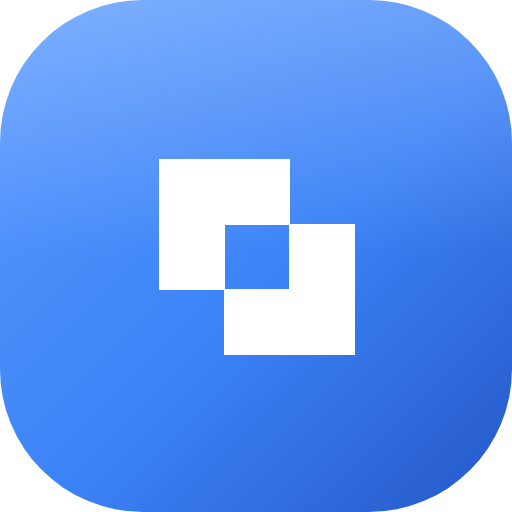
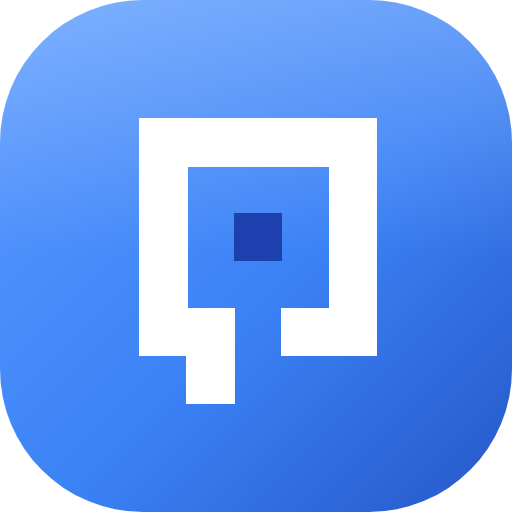
Marca Quest, grid no fundo da entrada e light mode refinado
- Marca Quest (símbolo D): balão de diálogo com a perna do Q em pixel,
  ponto central azul; renomeia Folia -> Quest em app, ícone, favicon, PWA,
  título, planilha do Drive e política de privacidade
- Tela de entrada: grade quadricular sutil somada às waves e ao granulado
- Light mode: neutros alinhados ao azul da marca, fundo mais suave e
  pontilhado visível (antes sumia no claro)

Claude-Session: https://claude.ai/code/session_01L9CKgReVrPXbht5aW6Gz6U

Changed region(s): [[0.25, 0.2188, 0.75, 0.8125]]

diff --git a/src/components/app-logo.tsx b/src/components/app-logo.tsx
@@ -1,55 +1,35 @@
 import { cn } from "@/lib/utils"
 
 /*
- * Folia — "folha" em festa. Logotipo em pixel no grid de 13 px da MAVI:
- * o O é uma folha (e o pingo do I também). A folha-O sozinha é o símbolo da marca.
+ * Quest — finanças como missões. Símbolo em pixel (grid de 13px, sistema MAVI):
+ * um balão de diálogo (a quest que se resolve conversando) com a perna do "Q".
+ * O ponto central é o ponto de interação (azul da marca).
  */
-const F = ["XXX", "XX.", "X.."]
-const O_LEAF = ["gg.", "g.g", ".gg"]
-const L = ["X..", "X..", "XXX"]
-const I = ["g", "X", "X"]
-const A = ["XXX", "XXX", "X.X"]
-
 const B = 13
-interface Px { x: number; y: number; leaf: boolean }
-const WORD_BLOCKS: Px[] = []
-let ox = 0
-for (const g of [F, O_LEAF, L, I, A]) {
-  g.forEach((row, y) => [...row].forEach((c, x) => { if (c !== ".") WORD_BLOCKS.push({ x: x + ox, y, leaf: c === "g" }) }))
-  ox += g[0].length + 1
-}
-const WORD_W = (ox - 1) * B // 17 blocos
-const LEAF_BLOCKS: Px[] = []
-O_LEAF.forEach((row, y) => [...row].forEach((c, x) => { if (c !== ".") LEAF_BLOCKS.push({ x, y, leaf: true }) }))
+// X = traço; o = ponto de interação
+const GRID = ["XXXXX", "X...X", "X.o.X", "X...X", "XX.XX", ".X..."]
+interface Px { x: number; y: number; dot: boolean }
+const BLOCKS: Px[] = []
+GRID.forEach((row, y) => [...row].forEach((c, x) => { if (c !== ".") BLOCKS.push({ x, y, dot: c === "o" }) }))
+const W = GRID[0].length * B
+const H = GRID.length * B
 
-const rects = (blocks: Px[], leaf: string) =>
-  [...blocks].sort((a, b) => Number(a.leaf) - Number(b.leaf)).map((p, i) => (
-    <rect key={i} x={p.x * B} y={p.y * B} width={B + 0.2} height={B + 0.2} fill={p.leaf ? leaf : undefined} />
-  ))
-
-/** Logotipo "FOLIA" (traço herda a cor do texto; folhas na cor da marca) */
-export function FoliaWordmark({ className, leaf = "var(--logo-leaf, #9BE858)" }: { className?: string; leaf?: string }) {
+/** Símbolo da marca (traço herda a cor do texto; ponto na cor da marca) */
+export function QuestMark({ className, stroke = "currentColor", dot = "#3B82F6" }: { className?: string; stroke?: string; dot?: string }) {
   return (
-    <svg viewBox={`0 0 ${WORD_W} ${3 * B}`} className={className} fill="currentColor" shapeRendering="crispEdges" role="img" aria-label="Folia">
-      {rects(WORD_BLOCKS, leaf)}
+    <svg viewBox={`0 0 ${W} ${H}`} className={className} shapeRendering="crispEdges" role="img" aria-label="Quest">
+      {[...BLOCKS].sort((a, b) => Number(a.dot) - Number(b.dot)).map((p, i) => (
+        <rect key={i} x={p.x * B} y={p.y * B} width={B + 0.3} height={B + 0.3} fill={p.dot ? dot : stroke} />
+      ))}
     </svg>
   )
 }
 
-/** Símbolo da marca: a folha-O do logotipo */
-export function FoliaMark({ className, leaf = "currentColor" }: { className?: string; leaf?: string }) {
-  return (
-    <svg viewBox={`0 0 ${3 * B} ${3 * B}`} className={className} shapeRendering="crispEdges" aria-hidden="true">
-      {rects(LEAF_BLOCKS, leaf)}
-    </svg>
-  )
-}
-
-/** Ícone do app: folha branca sobre o verde da Folia */
+/** Ícone do app: símbolo branco sobre o azul da marca, ponto azul vivo */
 export function AppLogo({ className }: { className?: string }) {
   return (
     <span className={cn("relative inline-flex size-8 shrink-0 items-center justify-center overflow-hidden rounded-[28%] bg-[linear-gradient(145deg,#5B9BFF,#3B82F6_55%,#2557C7)] shadow-[inset_0_1px_0_rgba(255,255,255,0.35)]", className)}>
-      <FoliaMark className="h-[54%] w-auto" leaf="#ffffff" />
+      <QuestMark className="h-[56%] w-auto" stroke="#ffffff" dot="#1E40AF" />
     </span>
   )
 }

diff --git a/src/pages/onboarding.tsx b/src/pages/onboarding.tsx
@@ -6,7 +6,7 @@ import { Input } from "@/components/ui/input"
 import { FieldLabel } from "@/components/field-label"
 import { MoneyInput } from "@/components/money-input"
 import { SimpleSelect } from "@/components/simple-select"
-import { AppLogo, FoliaWordmark } from "@/components/app-logo"
+import { AppLogo } from "@/components/app-logo"
 import { AuthorCredit } from "@/components/author-credit"
 import { FunSteps } from "@/components/fun-steps"
 import { GoogleIcon } from "@/components/google-icon"
@@ -76,7 +76,7 @@ export function Onboarding() {
           <div className="relative">
           <div className="flex flex-col items-center text-center">
             <AppLogo className="size-16 shadow-[0_14px_40px_-10px_rgba(59,130,246,0.5),inset_0_1px_0_rgba(255,255,255,0.35)] transition-transform duration-500 hover:-rotate-6 hover:scale-105" />
-            <FoliaWordmark className="mt-5 h-6 w-auto" leaf="#3B82F6" />
+            <span className="mt-5 font-brand text-[30px] leading-none font-semibold lowercase tracking-tight">quest</span>
             <p className="mt-1.5 text-sm text-balance text-muted-foreground">
               {view === "guest"
                   ? "Só precisamos de duas informações para começar."
@@ -238,6 +238,13 @@ function Backdrop({ className }: { className?: string }) {
         <div className="aurora-3 -bottom-[22%] left-[18%] h-[65%] w-[60%] bg-[#7DD3FC]/40 dark:bg-[#22D3EE]/45" />
         <div className="aurora-4 bottom-[6%] right-[14%] h-[45%] w-[45%] bg-[#A78BFA]/35 dark:bg-[#A78BFA]/40" />
       </div>
+      {/* grade quadricular sutil */}
+      <div className="absolute inset-0 opacity-[0.6] dark:opacity-[0.5]" style={{
+        backgroundImage: "linear-gradient(to right, color-mix(in srgb, var(--foreground) 6%, transparent) 1px, transparent 1px), linear-gradient(to bottom, color-mix(in srgb, var(--foreground) 6%, transparent) 1px, transparent 1px)",
+        backgroundSize: "40px 40px",
+        maskImage: "radial-gradient(ellipse 75% 65% at 50% 45%, black 25%, transparent 80%)",
+        WebkitMaskImage: "radial-gradient(ellipse 75% 65% at 50% 45%, black 25%, transparent 80%)",
+      }} />
       {/* vinheta para focar o centro e escurecer as bordas */}
       <div className="absolute inset-0" style={{
         background: "radial-gradient(ellipse 80% 70% at 50% 45%, transparent 35%, color-mix(in srgb, var(--background) 55%, transparent) 78%, var(--background) 100%)",

diff --git a/public/privacidade.html b/public/privacidade.html
@@ -3,7 +3,7 @@
 <head>
 <meta charset="utf-8" />
 <meta name="viewport" content="width=device-width, initial-scale=1" />
-<title>Política de Privacidade · Finitree</title>
+<title>Política de Privacidade · Quest</title>
 <link rel="icon" type="image/svg+xml" href="./icon.svg?v=3" />
 <meta name="theme-color" content="#090B12" />
 <script>
@@ -86,10 +86,10 @@
 
   <main class="card">
     <h1>Política de Privacidade</h1>
-    <p class="meta">Finitree · atualizada em novembro de 2026</p>
+    <p class="meta">Quest · atualizada em novembro de 2026</p>
 
     <div class="summary">
-      <p><b>Resumo:</b> o Finitree não tem servidor e não coleta seus dados. O que você registra fica no seu aparelho e, se você entrar com o Google, numa planilha criada no <b>seu próprio Google Drive</b>. O desenvolvedor não tem acesso a nada disso.</p>
+      <p><b>Resumo:</b> o Quest não tem servidor e não coleta seus dados. O que você registra fica no seu aparelho e, se você entrar com o Google, numa planilha criada no <b>seu próprio Google Drive</b>. O desenvolvedor não tem acesso a nada disso.</p>
     </div>
 
     <h2>Quais dados o app usa</h2>
@@ -102,7 +102,7 @@
     <h2>Onde ficam guardados</h2>
     <ul>
       <li>No armazenamento local do navegador do seu aparelho, para o app funcionar offline.</li>
-      <li>Se você entrar com o Google: numa planilha chamada “Finitree — dados” no seu Google Drive. Você pode abri-la, baixá-la ou apagá-la quando quiser.</li>
+      <li>Se você entrar com o Google: numa planilha chamada “Quest — dados” no seu Google Drive. Você pode abri-la, baixá-la ou apagá-la quando quiser.</li>
     </ul>
 
     <h2>Permissões do Google</h2>
@@ -114,7 +114,7 @@
     <h2>Como apagar seus dados</h2>
     <ul>
       <li>No app: <i>Minha conta → Apagar dados deste aparelho</i>.</li>
-      <li>No Google Drive: apague a planilha “Finitree — dados” (ou “Finanças — dados”, em contas mais antigas).</li>
+      <li>No Google Drive: apague a planilha “Quest — dados” (ou “Finanças — dados”, em contas mais antigas).</li>
       <li>Para revogar o acesso do app à sua conta: <a class="link" href="https://myaccount.google.com/permissions">myaccount.google.com/permissions</a>.</li>
     </ul>
 

diff --git a/src/pages/account.tsx b/src/pages/account.tsx
@@ -160,13 +160,13 @@ export function AccountPage() {
         <CardHeader>
           <CardTitle className="flex items-center gap-2"><ShieldCheck className="size-4" /> Senha e segurança</CardTitle>
           <CardDescription>
-            O Folia não guarda senhas. O acesso é feito pela sua conta Google, protegida pela senha e pela verificação em duas etapas do próprio Google.
+            O Quest não guarda senhas. O acesso é feito pela sua conta Google, protegida pela senha e pela verificação em duas etapas do próprio Google.
           </CardDescription>
         </CardHeader>
         <CardContent className="grid gap-2 sm:grid-cols-3">
           <SecurityLink icon={KeyRound} title="Alterar senha" desc="Troque a senha da sua conta Google" href="https://myaccount.google.com/signinoptions/password" />
           <SecurityLink icon={LifeBuoy} title="Esqueci a senha" desc="Recupere o acesso à conta Google" href="https://accounts.google.com/signin/recovery" />
-          <SecurityLink icon={ShieldCheck} title="Acessos do app" desc="Veja ou revogue o acesso do Folia" href="https://myaccount.google.com/permissions" />
+          <SecurityLink icon={ShieldCheck} title="Acessos do app" desc="Veja ou revogue o acesso do Quest" href="https://myaccount.google.com/permissions" />
         </CardContent>
       </Card>}
 
@@ -184,7 +184,7 @@ export function AccountPage() {
               <AlertDialogHeader>
                 <AlertDialogTitle>Apagar todos os dados deste aparelho?</AlertDialogTitle>
                 <AlertDialogDescription>
-                  {p.google ? "A planilha no seu Google Drive não é apagada: para excluí-la de vez, apague o arquivo “Folia — dados” no Drive." : "Sem conta Google conectada, isso não pode ser desfeito."}
+                  {p.google ? "A planilha no seu Google Drive não é apagada: para excluí-la de vez, apague o arquivo “Quest — dados” no Drive." : "Sem conta Google conectada, isso não pode ser desfeito."}
                 </AlertDialogDescription>
               </AlertDialogHeader>
               <AlertDialogFooter>

diff --git a/src/App.tsx b/src/App.tsx
@@ -66,7 +66,7 @@ export default function App() {
                 <ChevronLeft className="size-4" />
               </button>
             )}
-            <a href="#/dashboard" className="hidden font-brand text-sm font-semibold lowercase tracking-tight text-muted-foreground transition-colors hover:text-foreground sm:inline">folia</a>
+            <a href="#/dashboard" className="hidden font-brand text-sm font-semibold lowercase tracking-tight text-muted-foreground transition-colors hover:text-foreground sm:inline">quest</a>
             <ChevronRight className="hidden size-3.5 text-muted-foreground/60 sm:block" />
             {PARENT[route] && (
               <>
@@ -124,13 +124,15 @@ export default function App() {
   )
 }
 
-/** Brilhos suaves fixos atrás do conteúdo: dão profundidade e fazem o vidro aparecer */
+/** Fundo pontilhado fixo atrás do conteúdo (dá profundidade e faz o vidro aparecer) */
 function AppBackdrop() {
   return (
     <div aria-hidden className="pointer-events-none fixed inset-0 z-0 overflow-hidden">
-      {/* fundo pontilhado sutil (sem luzes) */}
-      <div className="absolute inset-0 opacity-[0.5] dark:opacity-[0.35]" style={{
-        backgroundImage: "radial-gradient(color-mix(in srgb, var(--foreground) 14%, transparent) 1px, transparent 0)",
+      {/* base levemente tonal, mais presente no claro para o pontilhado respirar */}
+      <div className="absolute inset-0 bg-[radial-gradient(ellipse_120%_90%_at_50%_-10%,color-mix(in_srgb,var(--brand)_7%,transparent),transparent_60%)] dark:bg-[radial-gradient(ellipse_120%_90%_at_50%_-10%,color-mix(in_srgb,var(--brand)_6%,transparent),transparent_55%)]" />
+      {/* pontilhado — mais visível no claro */}
+      <div className="absolute inset-0 opacity-[0.9] dark:opacity-[0.4]" style={{
+        backgroundImage: "radial-gradient(color-mix(in srgb, var(--foreground) 22%, transparent) 1px, transparent 1.4px)",
         backgroundSize: "22px 22px",
       }} />
     </div>

diff --git a/src/index.css b/src/index.css
@@ -60,7 +60,7 @@
 
 :root {
     /* Gráficos: paleta MAVI em variações de tom validadas (contraste e daltonismo) */
-    --background: oklch(0.967 0.004 155);
+    --background: oklch(0.966 0.005 255);
     --foreground: oklch(0.145 0 0);
     --card: oklch(1 0 0);
     --card-foreground: oklch(0.145 0 0);
@@ -68,15 +68,15 @@
     --popover-foreground: oklch(0.145 0 0);
     --primary: oklch(0.205 0 0);
     --primary-foreground: oklch(0.985 0 0);
-    --secondary: oklch(0.955 0.004 155);
+    --secondary: oklch(0.952 0.006 255);
     --secondary-foreground: oklch(0.205 0 0);
-    --muted: oklch(0.955 0.004 155);
-    --muted-foreground: oklch(0.49 0.008 155);
-    --accent: oklch(0.95 0.006 155);
+    --muted: oklch(0.952 0.006 255);
+    --muted-foreground: oklch(0.48 0.012 258);
+    --accent: oklch(0.948 0.008 255);
     --accent-foreground: oklch(0.205 0 0);
     --destructive: oklch(0.577 0.245 27.325);
-    --border: oklch(0.9 0.004 155);
-    --input: oklch(0.9 0.004 155);
+    --border: oklch(0.9 0.006 255);
+    --input: oklch(0.9 0.006 255);
     --ring: color-mix(in srgb, #3B82F6 60%, transparent);
     --chart-1: #3a81f5;
     --chart-2: #0b9e6f;
@@ -92,13 +92,13 @@
     --success: #0b7a0b;
     --warning: #b86e00;
     --critical: #d03b3b;
-    --sidebar: oklch(0.986 0.004 155);
+    --sidebar: oklch(0.985 0.005 255);
     --sidebar-foreground: oklch(0.145 0 0);
     --sidebar-primary: oklch(0.205 0 0);
     --sidebar-primary-foreground: oklch(0.985 0 0);
-    --sidebar-accent: oklch(0.95 0.006 155);
+    --sidebar-accent: oklch(0.948 0.008 255);
     --sidebar-accent-foreground: oklch(0.205 0 0);
-    --sidebar-border: oklch(0.9 0.004 155);
+    --sidebar-border: oklch(0.9 0.006 255);
     --sidebar-ring: oklch(0.708 0 0);
 }
 

diff --git a/src/lib/sheet-db.ts b/src/lib/sheet-db.ts
@@ -30,14 +30,14 @@ export async function createDataFile(ownerName: string): Promise<RemoteFile> {
   const sheet = await gfetch<{ spreadsheetId: string }>(SHEETS, {
     method: "POST",
     body: JSON.stringify({
-      properties: { title: `Folia — dados${ownerName ? ` de ${ownerName}` : ""}`, locale: "pt_BR" },
+      properties: { title: `Quest — dados${ownerName ? ` de ${ownerName}` : ""}`, locale: "pt_BR" },
       sheets: ["Lançamentos", "Meses", "Config"].map((title) => ({ properties: { title, gridProperties: { frozenRowCount: 1 } } })),
     }),
   })
   // Marca o arquivo para encontrá-lo em outros aparelhos
   return gfetch<RemoteFile>(`${DRIVE}/${sheet.spreadsheetId}?fields=id,modifiedTime,webViewLink`, {
     method: "PATCH",
-    body: JSON.stringify({ appProperties: { [APP_KEY]: "1" }, description: "Dados do app Folia. Não renomeie as abas." }),
+    body: JSON.stringify({ appProperties: { [APP_KEY]: "1" }, description: "Dados do app Quest. Não renomeie as abas." }),
   })
 }
 

diff --git a/src/components/app-sidebar.tsx b/src/components/app-sidebar.tsx
@@ -35,7 +35,7 @@ export function AppSidebar() {
             <SidebarMenuButton size="lg" className="gap-2.5 group-data-[collapsible=icon]:justify-center group-data-[collapsible=icon]:px-0!" render={<a href="#/dashboard" />}>
               <AppLogo className="size-8 shrink-0 transition-transform group-hover/menu-button:scale-105" />
               <div className="flex flex-1 flex-col overflow-hidden text-left leading-tight group-data-[collapsible=icon]:hidden">
-                <span className="font-brand text-[17px] leading-none font-semibold lowercase tracking-tight">folia</span>
+                <span className="font-brand text-[17px] leading-none font-semibold lowercase tracking-tight">quest</span>
                 <span className="truncate text-[11px] text-muted-foreground">{name ? `de ${name}` : "finanças pessoais"}</span>
               </div>
             </SidebarMenuButton>

diff --git a/index.html b/index.html
@@ -2,13 +2,13 @@
 <html lang="pt-BR" class="dark">
   <head>
     <meta charset="UTF-8" />
-    <link rel="icon" type="image/svg+xml" href="./icon.svg?v=5" />
-    <link rel="apple-touch-icon" href="./apple-touch-icon.png?v=5" />
+    <link rel="icon" type="image/svg+xml" href="./icon.svg?v=6" />
+    <link rel="apple-touch-icon" href="./apple-touch-icon.png?v=6" />
     <meta name="viewport" content="width=device-width, initial-scale=1.0, viewport-fit=cover" />
     <meta name="theme-color" content="#3B82F6" />
-    <meta name="description" content="Folia: suas finanças crescendo, mês a mês. Funciona offline." />
+    <meta name="description" content="Quest: suas finanças crescendo, mês a mês. Funciona offline." />
     <meta name="apple-mobile-web-app-capable" content="yes" />
-    <title>Folia</title>
+    <title>Quest</title>
   </head>
   <body>
     <div id="root"></div>

diff --git a/src/lib/backup.ts b/src/lib/backup.ts
@@ -25,6 +25,6 @@ export function downloadCsv(rows: (string | number)[][], filename: string) {
 export async function readBackup(file: File): Promise<Backup> {
   const data = JSON.parse(await file.text())
   if (!data || !Array.isArray(data.expenses) || !Array.isArray(data.months))
-    throw new Error("Arquivo inválido: não parece um backup do Folia.")
+    throw new Error("Arquivo inválido: não parece um backup do Quest.")
   return data as Backup
 }

diff --git a/vite.config.ts b/vite.config.ts
@@ -15,8 +15,8 @@ export default defineConfig({
       injectRegister: false,
       includeAssets: ["icon.svg", "apple-touch-icon.png"],
       manifest: {
-        name: "Folia — finanças pessoais",
-        short_name: "Folia",
+        name: "Quest — finanças pessoais",
+        short_name: "Quest",
         description: "Gestão financeira pessoal que funciona offline.",
         lang: "pt-BR",
         theme_color: "#3B82F6",

diff --git a/src/lib/sync.ts b/src/lib/sync.ts
@@ -105,7 +105,7 @@ export async function resolveConflict(keep: "local" | "remote") {
 }
 
 /* Última conta usada neste aparelho (para "Continuar como …" na tela inicial). Não guarda tokens. */
-const LAST_KEY = "folia-last-account"
+const LAST_KEY = "quest-last-account"
 export function lastAccount(): GoogleUser | null {
   try { return JSON.parse(localStorage.getItem(LAST_KEY) ?? "null") } catch { return null }
 }
